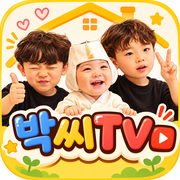
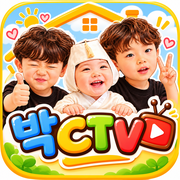
아이콘 교체 (새 박CTV 이미지): 웹앱 아이콘 + 안드로이드 앱 아이콘
Claude-Session: https://claude.ai/code/session_018wiG1uk5zYgqTCu3rjeRzM

diff --git a/web/sw.js b/web/sw.js
@@ -1,5 +1,5 @@
 // 가족 캠 서비스 워커
-const CACHE = 'family-cam-v15';
+const CACHE = 'family-cam-v16';
 const ASSETS = [
   './', './index.html', './manifest.webmanifest',
   './icon-192.png', './icon-512.png', './icon-maskable.png', './apple-touch-icon.png',
